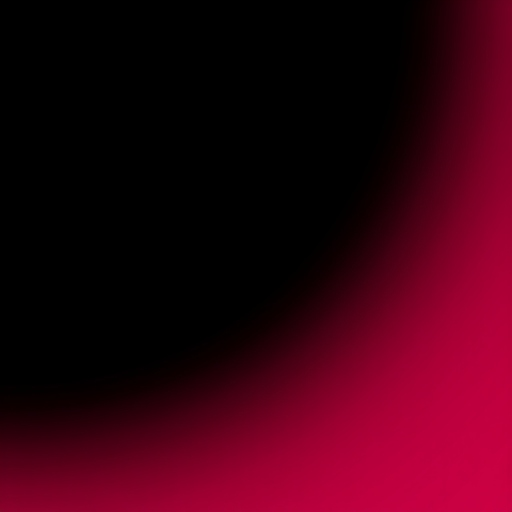
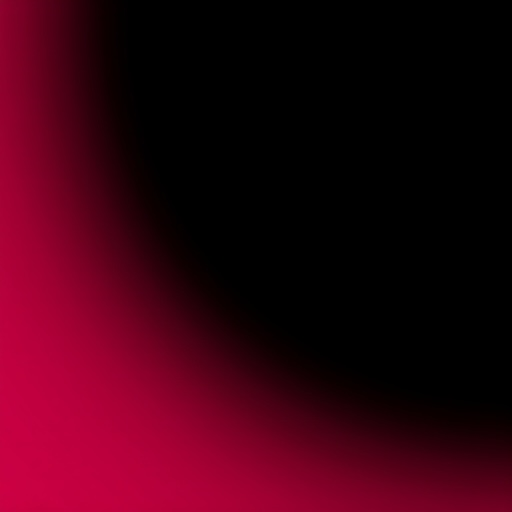
css 11/15

diff --git a/imitation.css b/imitation.css
@@ -5,6 +5,7 @@
 @import url('https://fonts.googleapis.com/css2?family=Kantumruy+Pro:ital,wght@0,100..700;1,100..700&display=swap');
 @import url('https://fonts.googleapis.com/css2?family=Old+Standard+TT:ital,wght@0,400;0,700;1,400&display=swap'); 
 @import url('https://fonts.googleapis.com/css2?family=Prosto+One&display=swap');
+@import url('https://fonts.googleapis.com/css2?family=Faculty+Glyphic&family=Prosto+One&display=swap');
 body {
     display: flex;
     align-items: center;
@@ -17,10 +18,11 @@ body {
 .chocolate-bar {
     width: 300px;
     height: 650px;
-    background-color: #f6f3f2;
-    border: 2px solid #e0e0e0;
+    background-color: #f5f4f0;
+    border: 2px solid #dbdbd9;
     
-    box-shadow: 0 4px 8px rgba(0, 0, 0, 0.2);
+    box-shadow: inset 0 4px 8px rgba(0, 0, 0, 0.2),
+    0 4px 8px rgba(0, 0, 0, 0.2);
     overflow: hidden;
     display: flex;
     flex-direction: column;
@@ -53,7 +55,7 @@ img.lindt-dragon  {
 }
 .divider {
     border: none; 
-    border-top: 3px solid #bda668; 
+    border-top: 3px solid#bda668; 
     width: 139%; 
     margin: 60px auto 5px; 
     margin-left: -40px;
@@ -66,6 +68,7 @@ img.lindt-dragon  {
     font-family: "figtree", sans-serif;
     font-weight: 300;
     margin-top: 0px;
+    margin-bottom: 0px;
 
 }
 .black-line {
@@ -107,18 +110,25 @@ img.lindt-dragon  {
 .main-content {
     
     color: rgb(255, 255, 255);
+    background-image: url("Gradient.jpeg");
+    background-size: cover;
     text-align: center;
     flex-grow: 1;
     font-family: "Bodoni Moda", serif;
-    font-size: 70px;
+    font-size:100px;
+      height: 3.75in;
+    width: 2.75in;
+    position: relative;
+    margin-top: 15px;
+    
 }
 
 .flavor {
-    font-size: 22px;
+    font-size: 27px;
     font-weight: bold;
     line-height: 1.4;
     letter-spacing: 3.5px;
-    margin-top: 0;
+    margin-top: 13px;
     
 }
 .image-container {
@@ -133,21 +143,13 @@ img.lindt-dragon  {
     top: 250px;
    
 }
-img.gradient-image{
-    height: 2.75in;
-    width: 3in;
-    transform: rotate(90deg);
-    position: absolute;
-    bottom: -120px;
-    top: -40px;
-   
-}
+
 img.raspberry-image {
-     position: relative;
-     left: 5px;
+     position: absolute;
+     left: 7px;
      height: 3.5in;  
-     bottom: -100px; 
-     top: 20px; 
+     bottom: -45px; 
+     
 }
 
 .footer {
@@ -163,7 +165,7 @@ img.raspberry-image {
     font-weight: bold;
     margin-bottom: -75px;
     padding: 15px;
-    font-family: "Prosto One", sans-serif;
+    font-family: "Faculty Glyphic", sans-serif;
     letter-spacing: 4px;
 
 }
@@ -174,13 +176,14 @@ img.raspberry-image {
     gap: 10px; 
     font-size: 12px;
     color: #666;
-  
+    
+}
     
 
-.description {
+.description{
     font-size: 12px;
     color: #bda668; 
-    margin: -5px 0;
+    margin: 60px 0 0 20px;
     
     font-family: "Old Standard TT", serif;
     font-style: italic;
@@ -189,15 +192,16 @@ img.raspberry-image {
 .french-description {
     font-size: 12px;
     color: #bda668; 
-    margin: -5px 0;
+    margin: 60px 0 0;
      font-family: "Old Standard TT", serif;
     font-style: italic;
+    
 
 }
 img.lindt-logo{
     height: 1in;
     width: 1in;
-    transform: translate(-102px, 53px);
+    transform: translate(-102px, 70px);
 }
 .weight {
     font-size: 22px;

diff --git a/imitation.html b/imitation.html
@@ -27,7 +27,7 @@
 
       <div class="header">
         <div class="brand-container">
-        <h1 class="brand">Lindt</h1>
+        <h1 class="brand"><em>Lindt</em></h1>
         <img class="lindt-dragon" src="Lindt-dragon.png">
         </div>
         <hr class="divider" />
@@ -36,10 +36,6 @@
   
       <div class="main-content">
         <h3 class="flavor">RASPBERRY<br>FRAMBOISE</h3>
-        
-      </div>
-      <div class="image-container">
-        <img class="gradient-image" src="Gradient.jpeg">
         <img class="raspberry-image" src="Raspberry.png" alt="Raspberry Image">
       </div>
       
@@ -56,6 +52,14 @@
     <hr class="gold-line-3">
     <hr class="gold-line-4">
     <hr class="black-line">
+
+    <div class="stack">
+      <div class="flex">
+        <div class="btm">
+          Dark chocolate with raspberry pieces
+        </div>
+        
+      </div>
   </body>
   
   </html>

diff --git a/index.html b/index.html
@@ -46,9 +46,9 @@
         <!-- IMAGE TAG BELOW -->
         <!-- FIX SRC= AS NEEDED -->
         <figure>
-          <img src="original.jpg" />
+          <img src="Lindt original .jpg" />
           <figcaption>
-            Original Layout from [note where the layout came from here]
+            Original Layout from Lindt
           </figcaption>
         </figure>
         <!-- END OF IMAGE TAG -->

diff --git a/responsive.html b/responsive.html
@@ -21,7 +21,7 @@
       
           <div class="header">
             <div class="brand-container">
-              <h1 class="brand">Lindt</h1>
+              <h1 class="brand"><em>Lindt</em></h1>
               <img class="lindt-dragon" src="Lindt-dragon.png">
             </div>
             <hr class="divider" />
